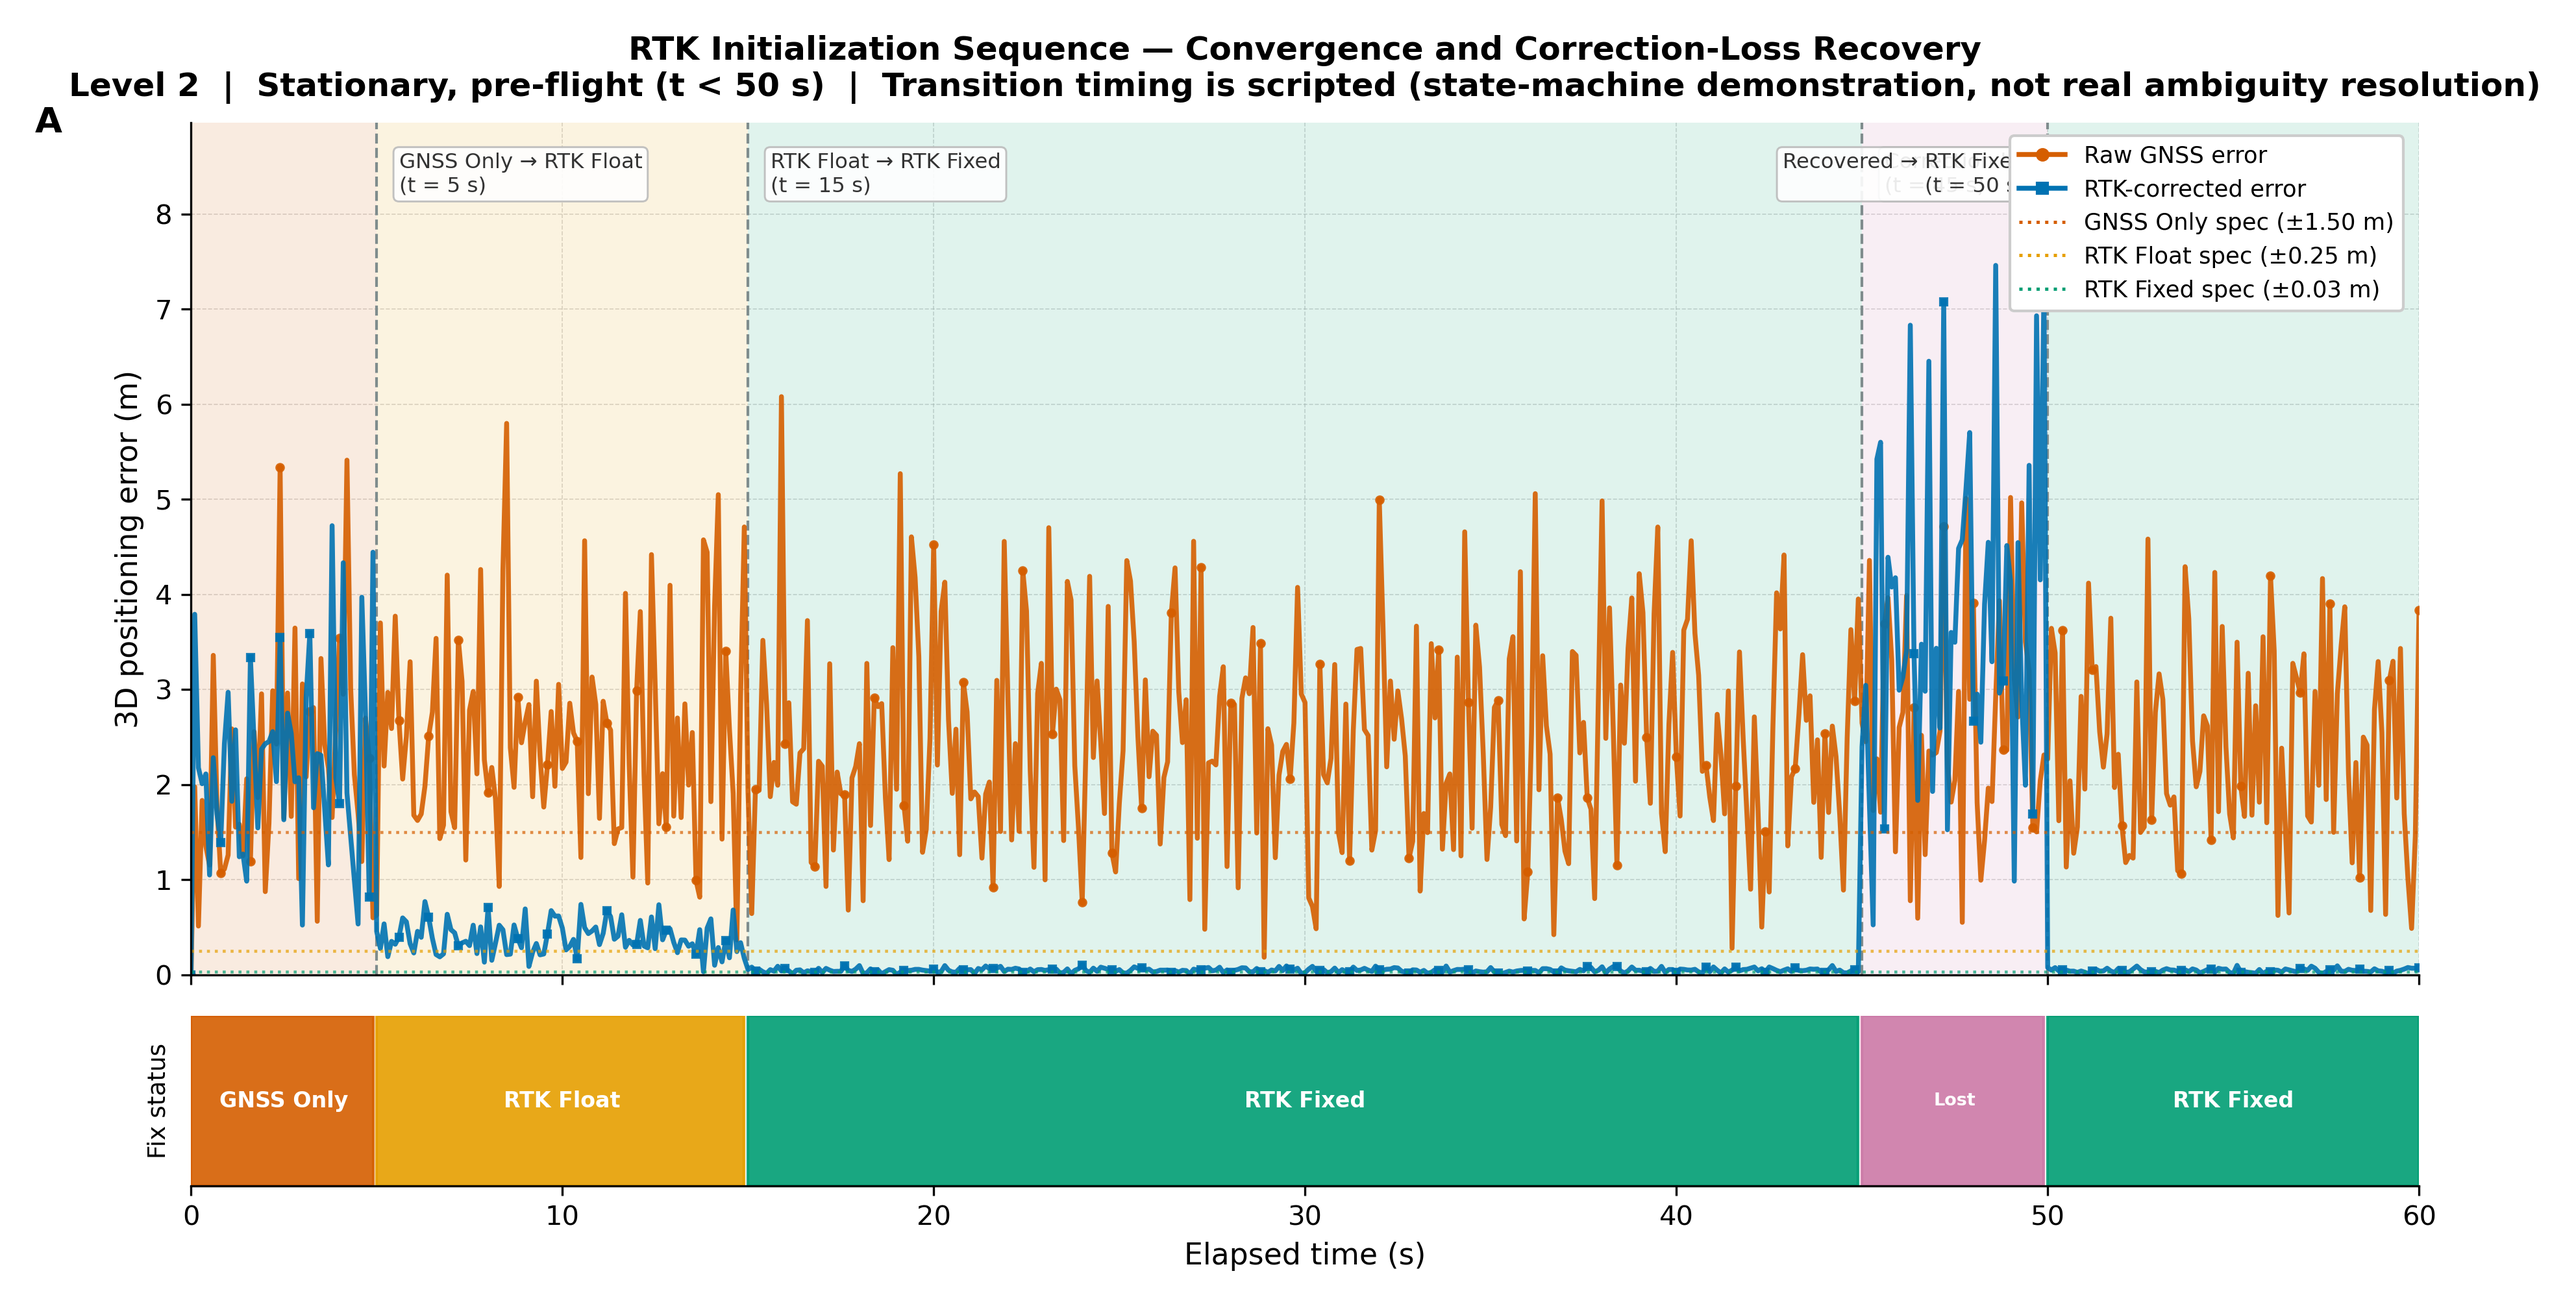
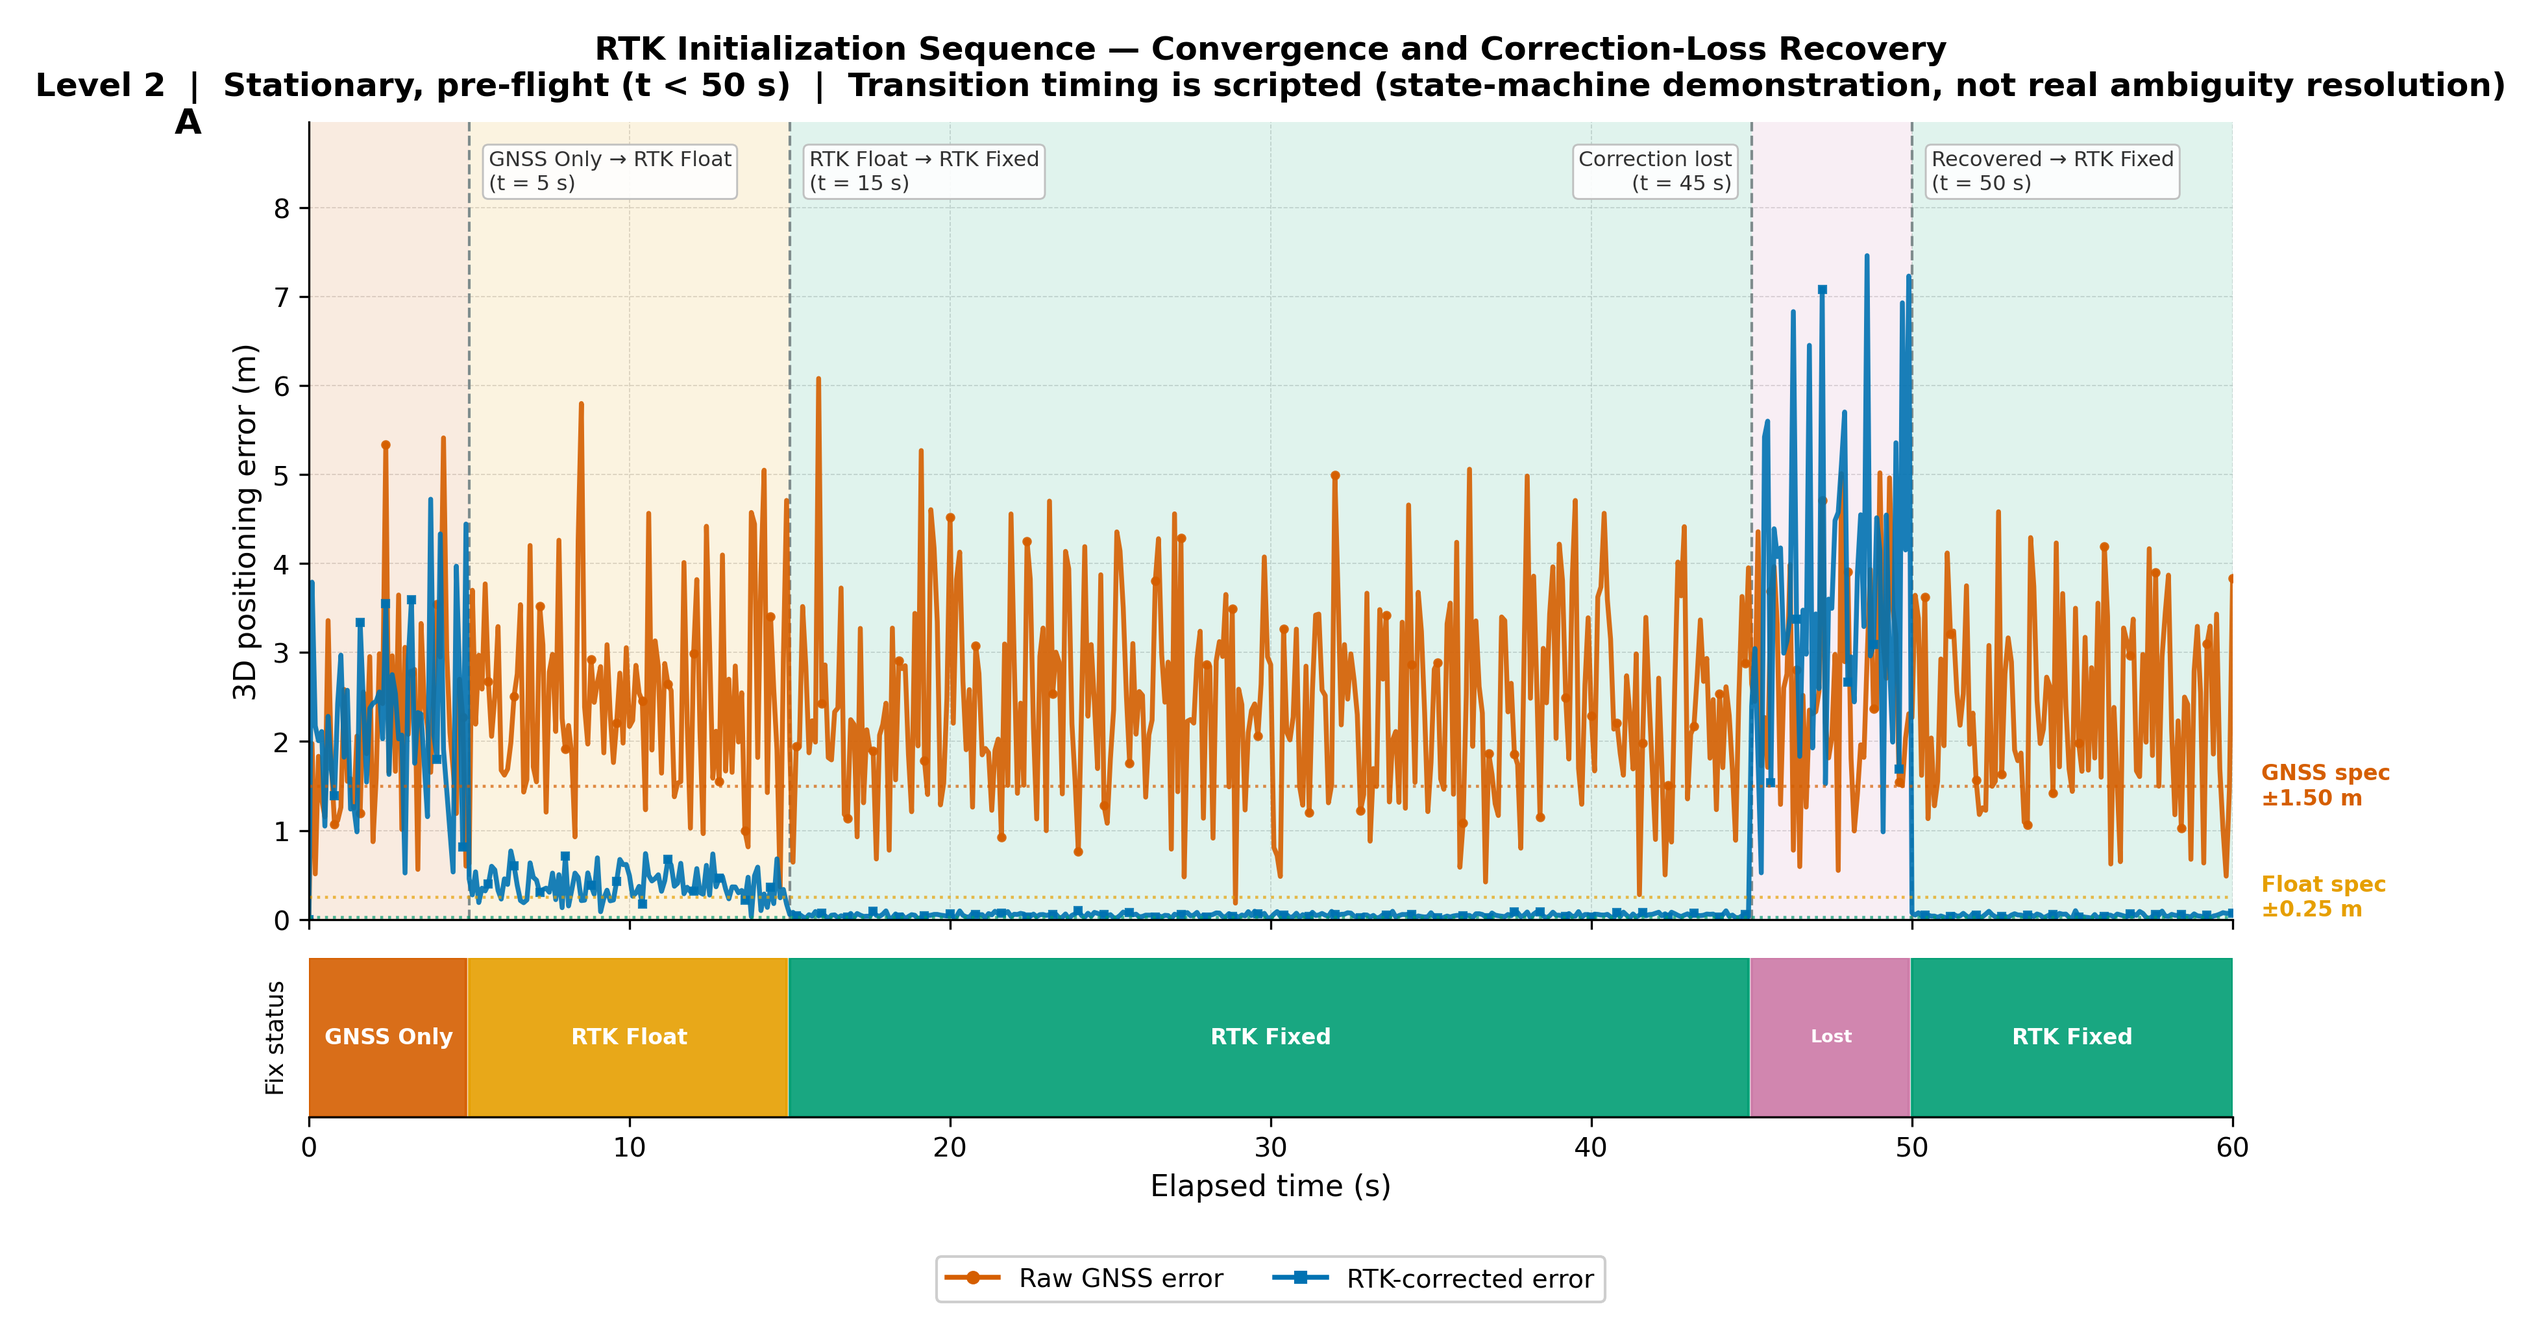
L2 Fig 2: fix label overlaps without dropping spec labels
Restore the GNSS/Float noise-spec labels (moved just outside the right edge so
they never cross the raw-error trace), move the raw/RTK key below the status
strip so it no longer covers the top transition labels, and separate the t=45
'Correction lost' and t=50 'Recovered' labels (left vs right).

diff --git a/results/graphs/rtk_positioning/analyse_level2.py b/results/graphs/rtk_positioning/analyse_level2.py
@@ -367,7 +367,7 @@ e_w, re_w, rk_w, st_w = elapsed[m60], raw_err[m60], rtk_err[m60], status[m60]
 fig, (ax1, ax2) = plt.subplots(
     2, 1, figsize=(13, 7),
     gridspec_kw={'height_ratios': [5, 1], 'hspace': 0.08}, sharex=True)
-fig.subplots_adjust(left=0.09, right=0.97, top=0.88, bottom=0.10)
+fig.subplots_adjust(left=0.09, right=0.85, top=0.88, bottom=0.15)
 
 shade_status(ax1, e_w, st_w, alpha=0.12)
 ax1.plot(e_w, re_w, color=C_RAW, lw=1.8, alpha=0.9, marker='o', ms=2.5,
@@ -375,12 +375,17 @@ ax1.plot(e_w, re_w, color=C_RAW, lw=1.8, alpha=0.9, marker='o', ms=2.5,
 ax1.plot(e_w, rk_w, color=C_RTK, lw=1.8, alpha=0.9, marker='s', ms=2.5,
          markevery=8, label='RTK-corrected error')
 
-# Per-status noise-spec reference lines. They are labelled in the legend (not
-# inline) because the raw-error trace fills the upper band and inline text
-# collided with it.
+# Per-status noise-spec reference lines, labelled just OUTSIDE the right edge
+# (blended transform: x in axes fraction, y in data) so the labels never cross
+# the raw-error trace that fills the plot interior.
 ax1.axhline(1.50, color=STATUS_COLORS['GNSS_ONLY'], ls=':', lw=1.1, alpha=0.7)
 ax1.axhline(0.25, color=STATUS_COLORS['RTK_FLOAT'], ls=':', lw=1.1, alpha=0.7)
 ax1.axhline(0.03, color=STATUS_COLORS['RTK_FIXED'], ls=':', lw=1.1, alpha=0.7)
+_spec_tr = ax1.get_yaxis_transform()
+ax1.text(1.015, 1.50, 'GNSS spec\n±1.50 m', transform=_spec_tr, color=STATUS_COLORS['GNSS_ONLY'],
+         fontsize=8, va='center', ha='left', fontweight='bold', clip_on=False)
+ax1.text(1.015, 0.25, 'Float spec\n±0.25 m', transform=_spec_tr, color=STATUS_COLORS['RTK_FLOAT'],
+         fontsize=8, va='center', ha='left', fontweight='bold', clip_on=False)
 
 y_top_c = max(float(rk_w.max()), float(re_w.max()), 8.0) * 1.12
 ax1.set_ylim(0, y_top_c)
@@ -394,7 +399,9 @@ transitions = [
 label_y = y_top_c * 0.965
 for t_tr, lbl in transitions:
     ax1.axvline(t_tr, color='#7F8C8D', ls='--', lw=1.0, zorder=1)
-    ha, xoff = ('right', t_tr - 0.6) if t_tr == 50.0 else ('left', t_tr + 0.6)
+    # Send the t=45 'Correction lost' label LEFT (into the clear RTK Fixed band)
+    # and the t=50 'Recovered' label RIGHT, so the two never overlap.
+    ha, xoff = ('right', t_tr - 0.6) if t_tr == 45.0 else ('left', t_tr + 0.6)
     ax1.text(xoff, label_y, lbl, fontsize=7.8, color='#333333', va='top', ha=ha,
              bbox=dict(boxstyle='round,pad=0.26', facecolor='white',
                        alpha=0.9, edgecolor='#BBBBBB', lw=0.7))
@@ -406,16 +413,12 @@ ax1.set_title(
     'RTK Initialization Sequence — Convergence and Correction-Loss Recovery\n'
     'Level 2  |  Stationary, pre-flight (t < 50 s)  |  Transition timing is scripted '
     '(state-machine demonstration, not real ambiguity resolution)', pad=10)
-# Single key (signals + noise-spec lines) with a solid background so it reads
-# cleanly over the raw-error spikes. Status bands are labelled inline in the strip.
-_leg = ax1.legend(
-    handles=[Line2D([0],[0], color=C_RAW, lw=1.8, marker='o', ms=4, label='Raw GNSS error'),
-             Line2D([0],[0], color=C_RTK, lw=1.8, marker='s', ms=4, label='RTK-corrected error'),
-             Line2D([0],[0], color=STATUS_COLORS['GNSS_ONLY'], ls=':', lw=1.2, label='GNSS Only spec (±1.50 m)'),
-             Line2D([0],[0], color=STATUS_COLORS['RTK_FLOAT'], ls=':', lw=1.2, label='RTK Float spec (±0.25 m)'),
-             Line2D([0],[0], color=STATUS_COLORS['RTK_FIXED'], ls=':', lw=1.2, label='RTK Fixed spec (±0.03 m)')],
-    loc='upper right', bbox_to_anchor=(0.998, 0.998), fontsize=8.5, framealpha=1.0)
-_leg.set_zorder(20)
+# Raw/RTK key placed BELOW the status strip so it never covers the transition
+# labels at the top of the plot. (Spec lines are labelled at the right edge.)
+fig.legend(handles=[Line2D([0],[0], color=C_RAW, lw=1.8, marker='o', ms=4, label='Raw GNSS error'),
+                    Line2D([0],[0], color=C_RTK, lw=1.8, marker='s', ms=4, label='RTK-corrected error')],
+           loc='lower center', bbox_to_anchor=(0.47, 0.005), ncol=2, fontsize=9.5,
+           framealpha=0.95, edgecolor='#CCCCCC')
 panel_label(ax1, 'A', dx=-0.07, dy=1.02)
 
 for s in ['GNSS_ONLY', 'RTK_FLOAT', 'RTK_FIXED', 'CORRECTION_LOST']:
